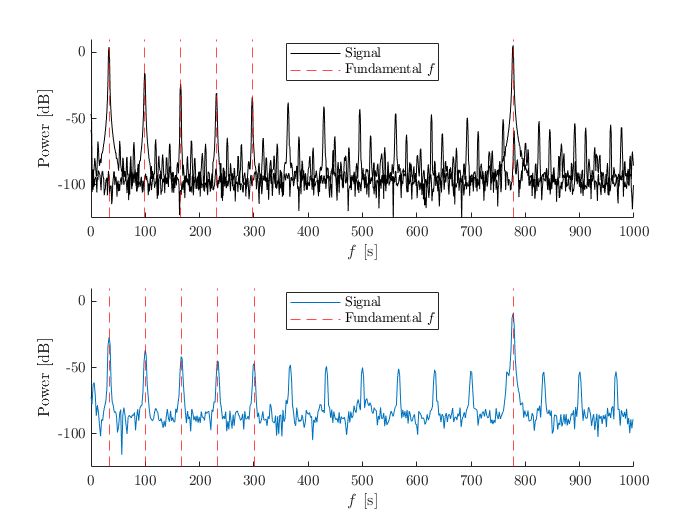
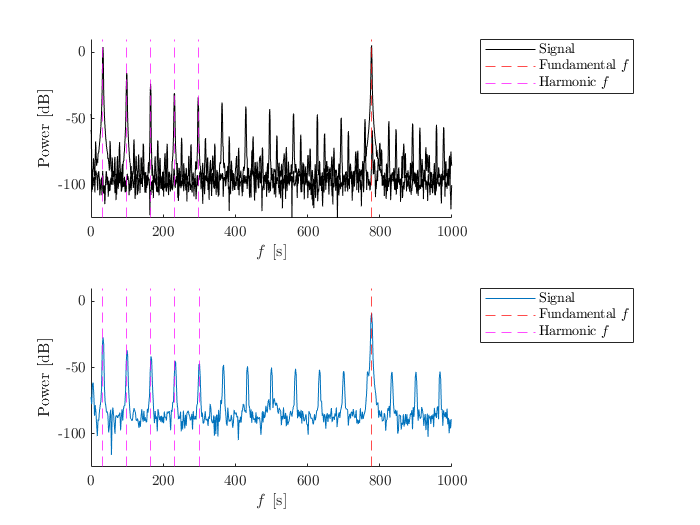
more code

diff --git a/LAB7.m b/LAB7.m
@@ -41,7 +41,7 @@ for i=1:length(h)
 end
 xlabel('$f$ [Hz]');
 ylabel('Power [dB]');
-legend([plt,line],{'Signal','Fundamental $f$'},'Interpreter','latex')
+legend([plt,line],{'Signal','Harmonic $f$'},'Interpreter','latex')
 
 %% Figures From Part 2
 % ---------------- Sine Wave at 10kHz Sampling Rate -------
@@ -140,14 +140,14 @@ set(gca,'defaulttextinterpreter','latex','TickLabelInterpreter','latex');
 plot(sinwave777(:,1),sinwave777(:,2),'k')
 plt = plot(triangle33(:,1),triangle33(:,2),'k');
 for i = 1:length(h)
-    xline(h(i),'--r');
+    harm = xline(h(i),'--m');
 end
 line = xline(f,'--r');
 xlabel('$f$ [s]');
 ylabel('Power [dB]');
 ylim([-125 10])
-legend([plt,line],{'Signal','Fundamental $f$'},'Interpreter','latex',...
-    'location','best')
+legend([plt,line,harm],{'Signal','Fundamental $f$','Harmonic $f$'},'Interpreter','latex',...
+    'location','bestoutside')
 
 clear h p
 [h,~] = getHarmonics(part32000,length(part32000(:,1)),-60)
@@ -157,13 +157,13 @@ hold on;
 set(gca,'defaulttextinterpreter','latex','TickLabelInterpreter','latex');
 plt2 = plot(part32000(:,1),part32000(:,2));
 for i = 1:length(h)
-    xline(h(i),'--r');
+    harm2 = xline(h(i),'--m');
 end
 line2 = xline(f,'--r');
 xlabel('$f$ [s]');
 ylabel('Power [dB]');
 ylim([-125 10])
-legend([plt2,line2],{'Signal','Fundamental $f$'},'Interpreter','latex',...
-    'location','best')
+legend([plt2,line2,harm2],{'Signal','Fundamental $f$','Harmonic $f$'},'Interpreter','latex',...
+    'location','bestoutside')
 
 %%
